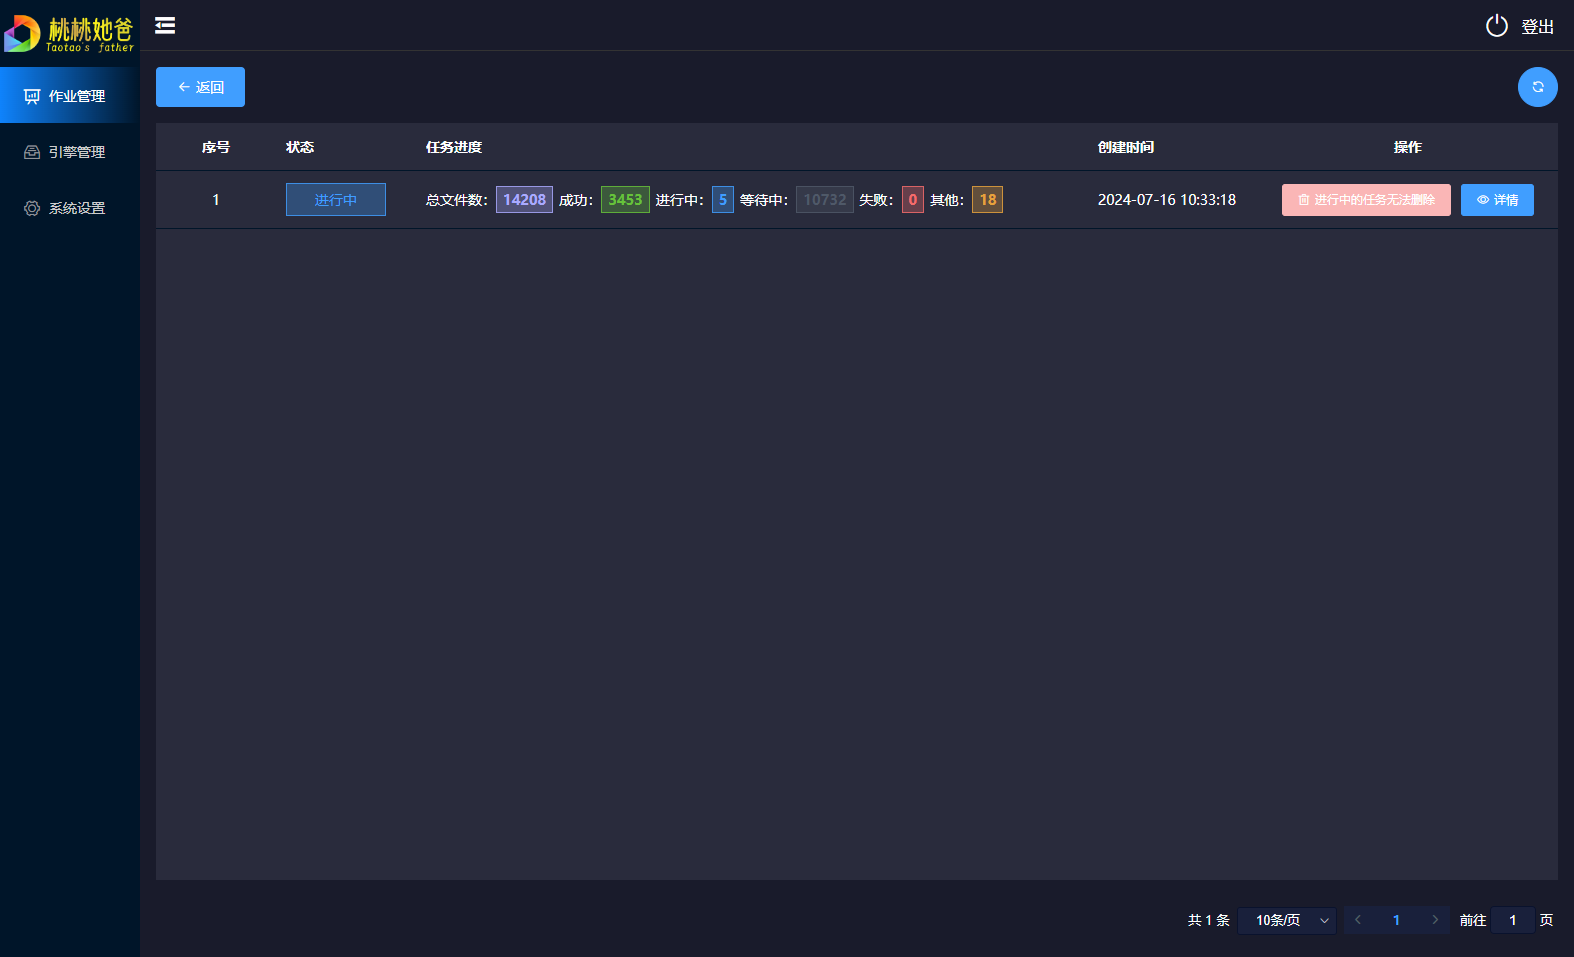
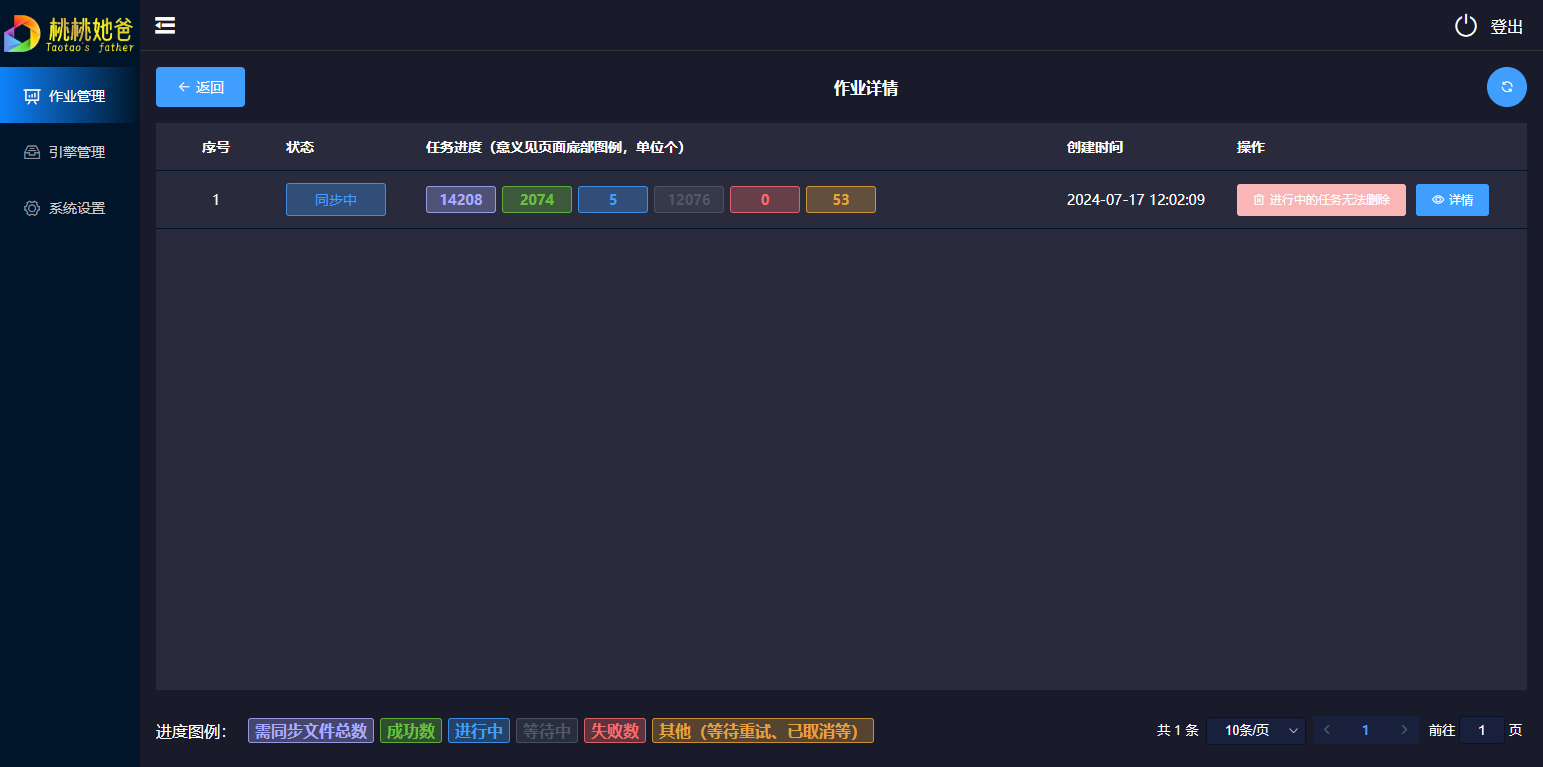
update to 0.1.4

diff --git a/README.md b/README.md
@@ -1,7 +1,7 @@
 # taosync
 `tao-sync`是一个适用于`AList v3`的自动化同步工具，目前正处于早期版本，出于安全考虑暂不开源，待系统完善到一定程度后再开源。
 
-**新项目急需Star，感谢各位！！**
+**新项目急需Star，感谢各位！！**[github地址](https://github.com/dr34-m/taosync) [gitee地址](https://gitee.com/dr34m/taosync)
 
 本工具主要用于同步备份功能，可以定时扫描指定目录下文件差异，让目标目录与源目录相同（全同步模式）；或仅新增存在于源目录，却不存在于目标目录的文件（仅新增模式）。
 
@@ -39,8 +39,8 @@ docker run -d -p 8023:8023 -v /opt/data:/app/data --name=taoSync dr34m/tao-sync:
 | ---------------- | ------------------------------------------------------------ | ------ |
 | TAO_EXPIRES      | 登录有效期，单位天                                           | 2      |
 | TAO_LOG_LEVEL    | 日志等级：0-DEBUG，1-INFO，2-WARNING，3-ERROR，4-CRITICAL；数值越大，产生的日志越少，推荐1或2 | 1      |
-| TAO_LOG_SAVE     | 系统日志保留天数，超过该天数会自动清理，单位天               | 7      |
-| TAO_TASK_SAVE    | 任务记录保留天数，超过该天数会自动清理，单位天               | 60     |
+| TAO_LOG_SAVE     | 系统日志保留天数，该天数之前的日志会自动清理，单位天，0表示不自动清理 | 7      |
+| TAO_TASK_SAVE    | 任务记录保留天数，该天数之前的记录会自动清理，单位天，0表示不自动清理 | 60     |
 | TAO_TASK_TIMEOUT | 任务执行超时时间，单位小时。一定要设置长一点，以免要备份的东西太多 | 72     |
 
 ## 页面截图
@@ -58,6 +58,18 @@ docker run -d -p 8023:8023 -v /opt/data:/app/data --name=taoSync dr34m/tao-sync:
 ![任务详情](README/任务详情.png)
 
 # 更新记录
+
+### 0.1.4（2024-07-17）
+
+* 作业详情-增加【无需同步】、【扫描对比中】、【同步中】三种状态
+
+* 作业详情-任务进度显示效果调整，由下图左调整为下图右的样子
+
+![image-20240717124658962](README/image-20240717124658962.png)
+
+* 作业详情-没有需要同步的文件时，不显示详情按钮（因为点进去也是空的）
+* 修改环境变量默认值，不再默认自动清理记录
+* 整体页面元素圆角风格统一
 
 ### 0.1.3（2024-07-16）
 
